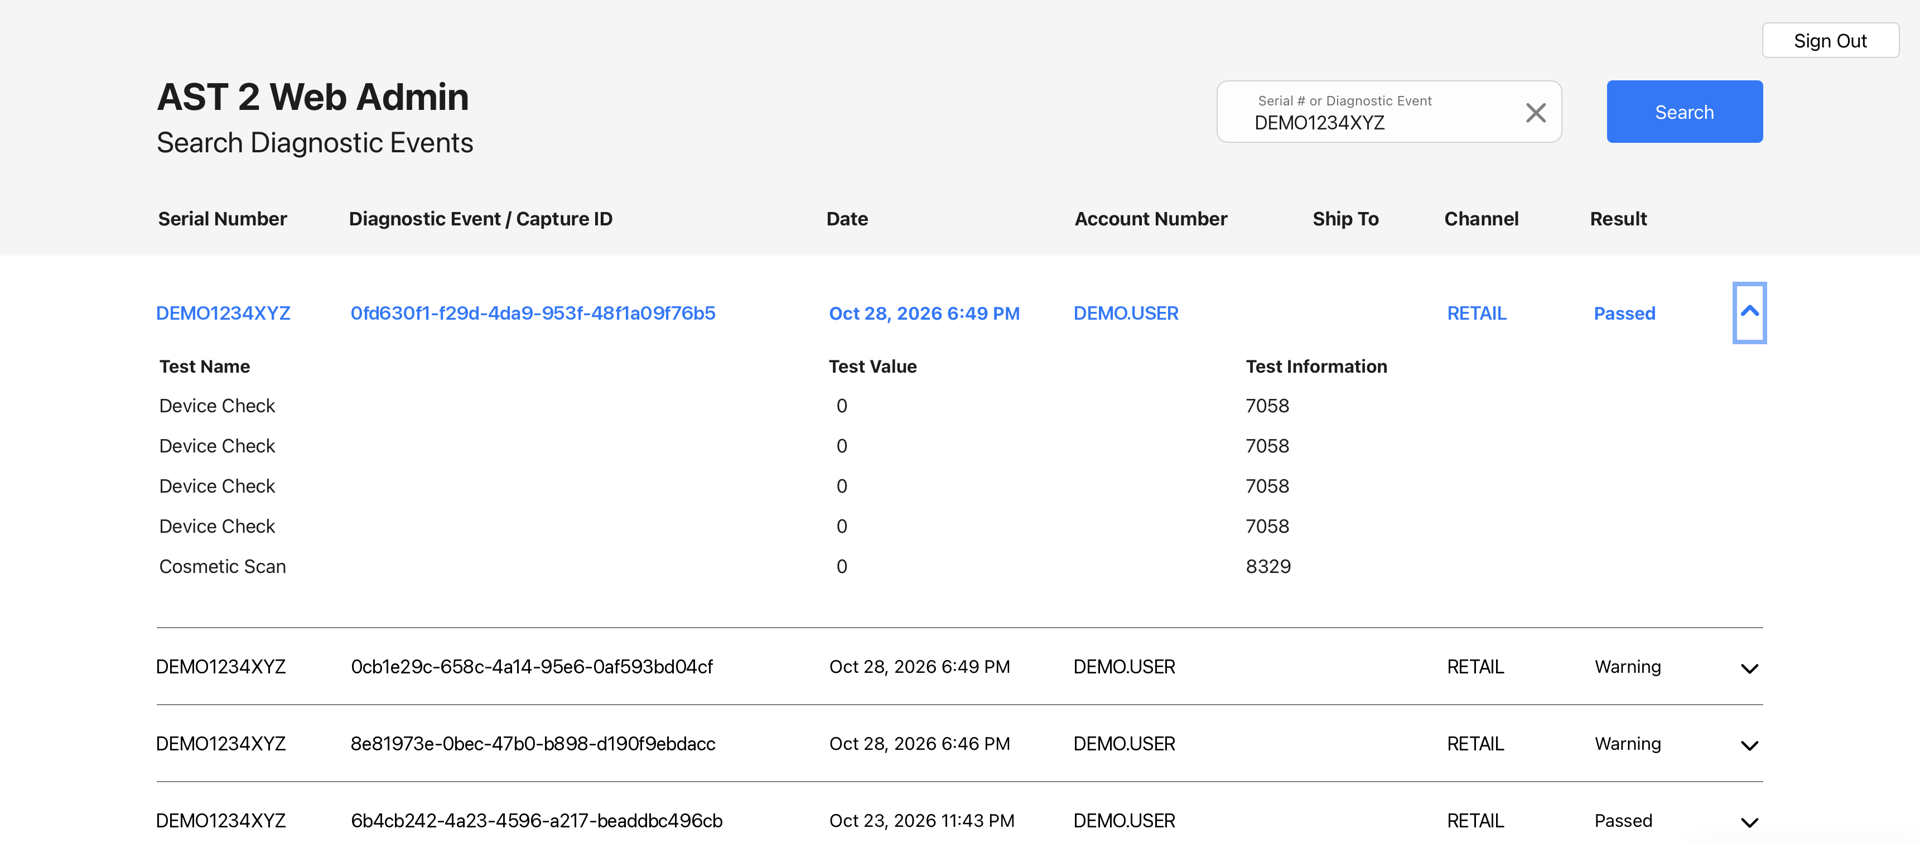
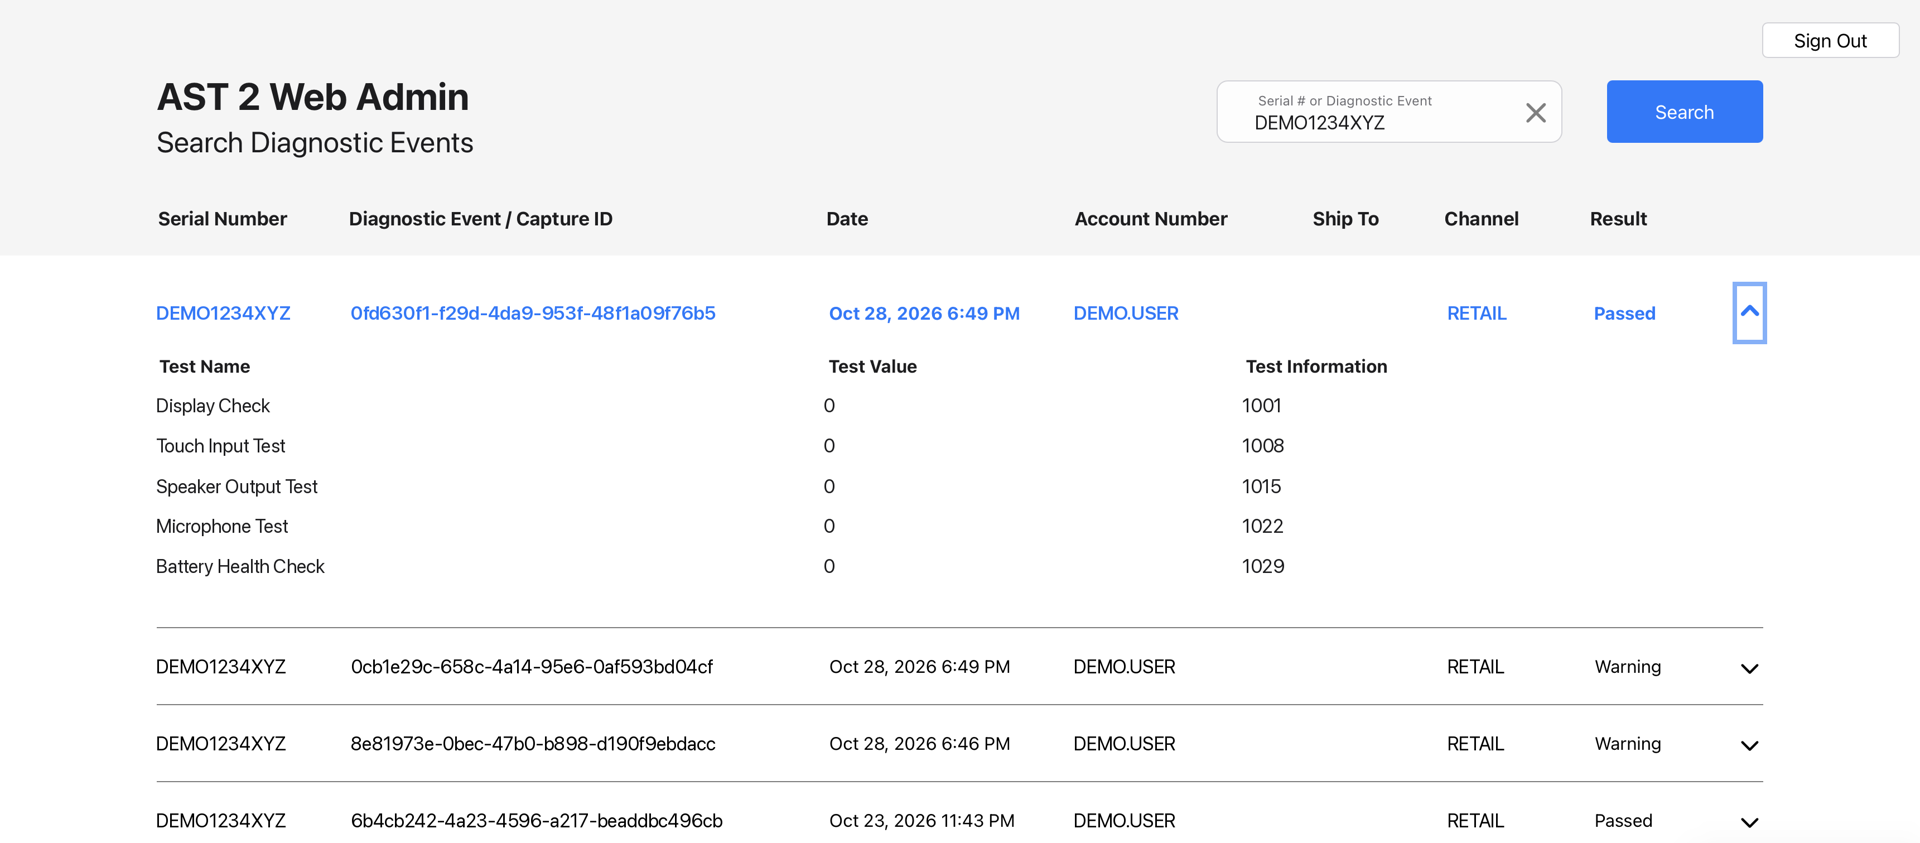
Web Admin: replace test names/codes with generic demo tests; cache-bust assets

diff --git a/index.html b/index.html
@@ -59,7 +59,7 @@
 <link rel="preconnect" href="https://fonts.googleapis.com">
 <link rel="preconnect" href="https://fonts.gstatic.com" crossorigin>
 <link rel="stylesheet" href="https://fonts.googleapis.com/css2?family=Inter:opsz,wght@14..32,400..800&family=JetBrains+Mono:wght@400;600&display=swap">
-<link rel="stylesheet" href="assets/css/site.css">
+<link rel="stylesheet" href="assets/css/site.css?v=202611222219">
 
 <script type="application/ld+json">
 {
@@ -426,8 +426,8 @@ score  <span class="y">62</span> → <span class="s">96 after auto-fix + manual 
   </div>
 </dialog>
 
-<script src="assets/i18n.js"></script>
-<script src="assets/js/projects.js"></script>
-<script src="assets/js/site.js"></script>
+<script src="assets/i18n.js?v=202611222219"></script>
+<script src="assets/js/projects.js?v=202611222219"></script>
+<script src="assets/js/site.js?v=202611222219"></script>
 </body>
 </html>
